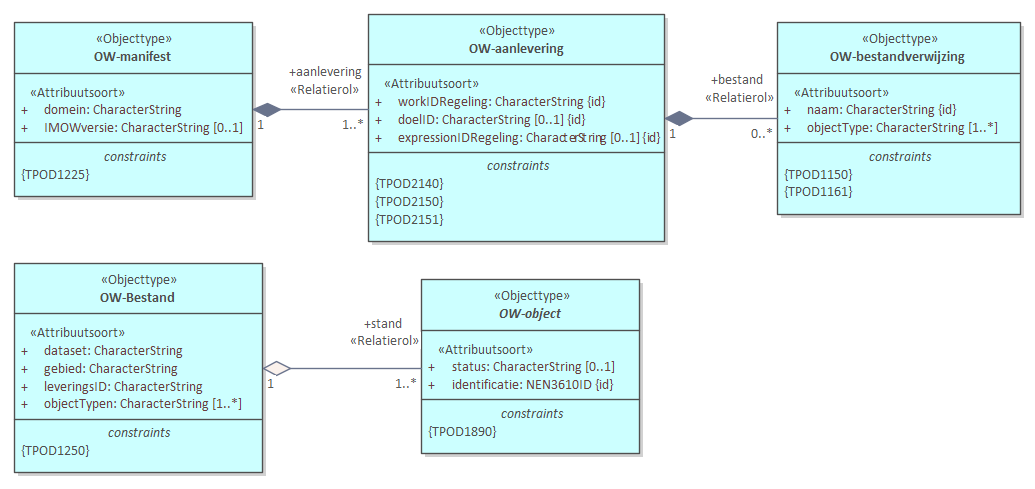
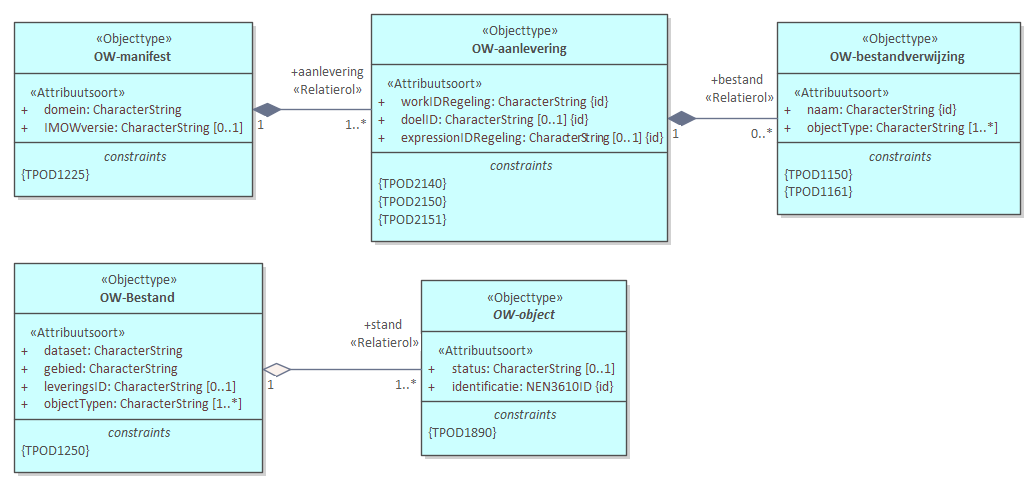
20200601_Oplevering

diff --git a/data/IMOW-cat.respec.html b/data/IMOW-cat.respec.html
@@ -1,4 +1,4 @@
-<!DOCTYPE HTML><section id="cat" class="normative"><h2>Gegevensdefinitie</h2><!--20200601_Oplevering imvertor 4.3.0--><section id="global_package_Aanlevering"><h3>Domein   Aanlevering</h3><section id="EAID_D6C15DB1_4E38_4908_B130_11EA3C77AC79"><h4>   Aanlevering - overzicht</h4><div class="imageinfo overview"><figure class="uml-diagram"><img id="EAID_D6C15DB1_4E38_4908_B130_11EA3C77AC79" src="data/Images/EAID_D6C15DB1_4E38_4908_B130_11EA3C77AC79.png" usemap="#imagemap-EAID_D6C15DB1_4E38_4908_B130_11EA3C77AC79" alt="Diagram: Als bij het bronhouderkoppelvlak van de LVBB een Aanlevering wordt gedaan met daarin een OW-manifest moet de inhoud hiervan voldoen aan het IMOW. Het OW-manifest is een bestand met de naam ‘manifest-ow.xml’. In een OW-manifest zitten één of meer OW-aanleveringen. Ieder van die OW-aanleveringen is via het attribuut expressionIDRegeling gekoppeld aan de wijziging van een Regeling in het STOP deel van de LVBB-Aanlevering. De OW-objecten zijn te verdelen over een aantal OW-bestanden waarnaar verwezen wordt via de OW-bestandverwijzing."><figcaption> ‒ Diagram: Aanlevering</figcaption></figure><map name="imagemap-EAID_D6C15DB1_4E38_4908_B130_11EA3C77AC79"><area shape="rect" alt="OW-object" coords="421,279,640,454" href="#global_class_OWobject_OWobject"><area shape="rect" alt="OW-Bestand" coords="14,263,263,473" href="#global_class_Aanlevering_OWBestand"><area shape="rect" alt="OW-manifest" coords="14,22,253,197" href="#global_class_Aanlevering_OWmanifest"><area shape="rect" alt="OW-bestandverwijzing" coords="777,22,1021,215" href="#global_class_Aanlevering_OWbestandverwijzing"><area shape="rect" alt="OW-aanlevering" coords="368,14,665,242" href="#global_class_Aanlevering_OWaanlevering"></map><p>
+<!DOCTYPE HTML><section id="cat" class="normative"><h2>Gegevensdefinitie</h2><!--20200601_Oplevering imvertor 4.3.0--><section id="global_package_Aanlevering"><h3>Domein   Aanlevering</h3><section id="EAID_D6C15DB1_4E38_4908_B130_11EA3C77AC79"><h4>   Aanlevering - overzicht</h4><div class="imageinfo overview"><figure class="uml-diagram"><img id="EAID_D6C15DB1_4E38_4908_B130_11EA3C77AC79" src="data/Images/EAID_D6C15DB1_4E38_4908_B130_11EA3C77AC79.png" usemap="#imagemap-EAID_D6C15DB1_4E38_4908_B130_11EA3C77AC79" alt="Diagram: Als bij het bronhouderkoppelvlak van de LVBB een Aanlevering wordt gedaan met daarin een OW-manifest moet de inhoud hiervan voldoen aan het IMOW. Het OW-manifest is een bestand met de naam ‘manifest-ow.xml’. In een OW-manifest zitten één of meer OW-aanleveringen. Ieder van die OW-aanleveringen is via het attribuut expressionIDRegeling gekoppeld aan de wijziging van een Regeling in het STOP deel van de LVBB-Aanlevering. De OW-objecten zijn te verdelen over een aantal OW-bestanden waarnaar verwezen wordt via de OW-bestandverwijzing."><figcaption> ‒ Diagram: Aanlevering</figcaption></figure><map name="imagemap-EAID_D6C15DB1_4E38_4908_B130_11EA3C77AC79"><area shape="rect" alt="OW-object" coords="421,280,627,456" href="#global_class_OWobject_OWobject"><area shape="rect" alt="OW-Bestand" coords="14,263,263,473" href="#global_class_Aanlevering_OWBestand"><area shape="rect" alt="OW-manifest" coords="14,22,253,197" href="#global_class_Aanlevering_OWmanifest"><area shape="rect" alt="OW-bestandverwijzing" coords="777,22,1021,215" href="#global_class_Aanlevering_OWbestandverwijzing"><area shape="rect" alt="OW-aanlevering" coords="371,14,668,242" href="#global_class_Aanlevering_OWaanlevering"></map><p>
                         <p>Als bij het bronhouderkoppelvlak van de  LVBB een Aanlevering wordt gedaan met daarin een OW-manifest  moet de inhoud hiervan voldoen aan het IMOW. Het OW-manifest is een bestand met de naam ‘manifest-ow.xml’.</p>
                         <p>In een OW-manifest zitten één of meer OW-aanleveringen. Ieder van die OW-aanleveringen is via het attribuut expressionIDRegeling gekoppeld aan de wijziging van een Regeling in het STOP deel van de LVBB-Aanlevering.</p>
                         <p>De OW-objecten zijn te verdelen over een aantal OW-bestanden waarnaar verwezen wordt via de OW-bestandverwijzing.</p>
@@ -79,7 +79,7 @@
                            <p>Een identificatie van de levering.</p>
                         </td><td>
                            CHARACTERSTRING
-                        </td><td>1</td></tr><tr><td>
+                        </td><td>0 .. 1</td></tr><tr><td>
                            <a class="link" href="#detail_attribute_Aanlevering_OWBestand_objectTypen">objectTypen</a>
                         </td><td>
                            <p>Lijst van specifieke objectTypen die voorkomen in het OW-bestand.</p>
@@ -249,9 +249,9 @@
                               
                                     <p>Een identificatie van de levering.</p>
                                  
-                           </td></tr><tr><th>Formaat</th><td>CHARACTERSTRING</td></tr><tr><th>Lengte</th><td>0..255</td></tr><tr><th>Indicatie materiële historie</th><td>Nee</td></tr><tr><th>Kardinaliteit</th><td>1</td></tr><tr><th>Toelichting</th><td>
+                           </td></tr><tr><th>Formaat</th><td>CHARACTERSTRING</td></tr><tr><th>Lengte</th><td>0..255</td></tr><tr><th>Indicatie materiële historie</th><td>Nee</td></tr><tr><th>Kardinaliteit</th><td>0 .. 1</td></tr><tr><th>Toelichting</th><td>
                               
-                                    <p>In het xsd is een waarde voor dit attribuut verplicht maar de waarde wordt verder in het stelsel niet gebruikt.</p>
+                                    <p>De waarde wordt verder in het stelsel niet gebruikt.</p>
                                  
                            </td></tr><tr><th>Indicatie classificerend</th><td>Nee</td></tr><tr><th>Mogelijk geen waarde</th><td>Nee</td></tr><tr><th>Indicatie identificerend</th><td>Nee</td></tr></tbody></table>
                   </div>
